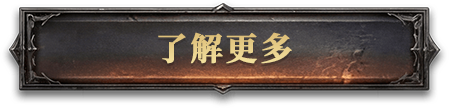
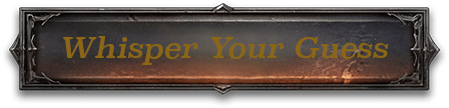
improved

Changed region(s): [[0.1247, 0.3056, 0.8731, 0.6111], [0.4053, 0.6389, 0.6548, 0.75], [0.6236, 0.6389, 0.6548, 0.6667]]

diff --git a/index.html b/index.html
@@ -3,7 +3,7 @@
   <head>
     <meta charset="UTF-8" />
     <meta name="viewport" content="width=device-width, initial-scale=1.0" />
-    <title>Mithril Studio</title>
+    <title>WE ARE BACK!</title>
     <link rel="preconnect" href="https://fonts.googleapis.com" />
     <link rel="preconnect" href="https://fonts.gstatic.com" crossorigin />
     <link href="https://fonts.googleapis.com/css2?family=Cinzel:wght@400;600;700&display=swap" rel="stylesheet" />
@@ -70,6 +70,112 @@
         border-radius: 3px;
         overflow: hidden;
       }
+
+    </style>
+    <style>
+      #guessTrigger {
+        border: 0;
+        background: transparent;
+        padding: 0;
+        cursor: pointer;
+      }
+
+      dialog::backdrop {
+        background: rgba(3, 4, 8, 0.78);
+        backdrop-filter: blur(4px);
+      }
+
+      #guessDialog {
+        position: fixed;
+        top: 50%;
+        left: 50%;
+        top: 50dvh;
+        left: 50vw;
+        width: min(92vw, 420px);
+        max-height: min(90dvh, 560px);
+        margin: 0;
+        overflow-y: auto;
+        transform: translate(-50%, -50%);
+        box-sizing: border-box;
+        -webkit-overflow-scrolling: touch;
+      }
+
+      #guessForm {
+        display: flex;
+        flex-direction: column;
+        gap: 20px;
+        padding: 28px 24px;
+      }
+
+      #guessDialog form {
+        box-sizing: border-box;
+      }
+
+      #guessDialog h2 {
+        margin: 0;
+        color: #e8e6e3;
+        font-family: "Cinzel", serif;
+        font-size: 24px;
+        line-height: 1.25;
+        letter-spacing: 0;
+        text-align: center;
+      }
+
+      #guessDialog label {
+        display: block;
+        color: #d7d0c8;
+        font-size: 14px;
+        line-height: 1.4;
+        text-align: left;
+      }
+
+      #guessDialog input {
+        display: block;
+        width: 100%;
+        box-sizing: border-box;
+        margin-top: 8px;
+        border: 1px solid rgba(123, 107, 87, 0.7);
+        border-radius: 4px;
+        background: #15151d;
+        color: #f4efe8;
+        font-size: 16px;
+        line-height: 1.4;
+        padding: 12px;
+        outline: none;
+      }
+
+      #guessDialog input:focus {
+        border-color: #c9a84c;
+        box-shadow: 0 0 0 1px #c9a84c;
+      }
+
+      #guessDialog button[type="submit"] {
+        min-height: 48px;
+        border: 1px solid rgba(201, 168, 76, 0.7);
+        border-radius: 4px;
+        background: #7b6b57;
+        color: #fff9ef;
+        font-family: "Cinzel", serif;
+        font-size: 14px;
+        letter-spacing: 0;
+        text-transform: uppercase;
+      }
+
+      #guessDialog button[type="submit"]:hover,
+      #guessDialog button[type="submit"]:focus-visible {
+        background: #8b7355;
+      }
+
+      @media (max-width: 480px) {
+        #guessDialog {
+          width: calc(100vw - 32px);
+          max-height: calc(100dvh - 32px);
+        }
+
+        #guessForm {
+          padding: 24px 18px;
+        }
+      }
     </style>
   </head>
   <body class="bg-[#05070f]">
@@ -81,6 +187,7 @@
           <video class="absolute inset-0 w-full h-full object-cover" aria-hidden="true" autoplay muted loop playsinline>
             <source src="./static/bg.mp4" type="video/mp4" />
           </video>
+
           <div
             class="absolute inset-0 bg-[radial-gradient(ellipse_at_center,_rgba(201,168,76,0.08)_0%,_transparent_70%)]"
             aria-hidden="true"
@@ -94,14 +201,21 @@
                 class="mx-auto w-full max-w-[520px] sm:max-w-[680px] lg:max-w-[760px] h-auto"
               />
             </h1>
+            <h1 class="mb-5 sm:mb-8 leading-tight text-1xl sm:text-2xl sm:whitespace-nowrap">
+              "Those who name the blood may earn the right to tread the dungeon."
+            </h1>
             <div class="mb-6 sm:mb-8">
-              <a href="javascript:void(0)" style="display: inline-block">
+              <button
+                id="guessTrigger"
+                type="button"
+                class="inline-block cursor-pointer border-0 bg-transparent p-0 transition duration-200 hover:scale-[1.02] focus:outline-none focus-visible:ring-2 focus-visible:ring-[#c9a84c] focus-visible:ring-offset-4 focus-visible:ring-offset-[#05070f]"
+              >
                 <img
                   src="./static/btn_more.png"
-                  alt="Subscribe"
+                  alt="Whisper Your Guess"
                   class="mx-auto w-[220px] sm:w-[280px] lg:w-[360px] h-auto"
                 />
-              </a>
+              </button>
             </div>
             <img
               src="./static/txt_slogan.png"
@@ -116,5 +230,94 @@
         </div>
       </div>
     </div>
+
+    <dialog
+      id="guessDialog"
+      tabindex="-1"
+      class="rounded-md border border-[#7b6b57]/60 bg-[#0b0c12]/95 p-0 text-primary-text shadow-2xl shadow-black/60"
+      aria-labelledby="guessDialogTitle"
+    >
+      <form id="guessForm" class="space-y-5 px-6 py-7 sm:px-8" novalidate>
+        <div class="text-center">
+          <h2 id="guessDialogTitle" class="text-xl sm:text-2xl text-[#e8e6e3]">Whisper Your Guess</h2>
+        </div>
+
+        <label class="block text-left text-sm text-[#d7d0c8]">
+          Guess Name
+          <input
+            id="guessName"
+            name="guessName"
+            type="text"
+            required
+            autocomplete="off"
+            class="mt-2 block w-full rounded border border-[#7b6b57]/70 bg-[#15151d] px-3 py-3 text-base text-[#f4efe8] outline-none transition placeholder:text-[#8b8174] focus:border-[#c9a84c] focus:ring-1 focus:ring-[#c9a84c]"
+            placeholder="Enter the name"
+          />
+        </label>
+
+        <label class="block text-left text-sm text-[#d7d0c8]">
+          Email Address
+          <input
+            name="email"
+            type="email"
+            required
+            autocomplete="email"
+            class="mt-2 block w-full rounded border border-[#7b6b57]/70 bg-[#15151d] px-3 py-3 text-base text-[#f4efe8] outline-none transition placeholder:text-[#8b8174] focus:border-[#c9a84c] focus:ring-1 focus:ring-[#c9a84c]"
+            placeholder="[email redacted]"
+          />
+        </label>
+
+        <button
+          type="submit"
+          class="w-full rounded border border-[#c9a84c]/70 bg-[#7b6b57] px-4 py-3 font-heading text-sm uppercase text-[#fff9ef] transition hover:bg-[#8b7355] focus:outline-none focus-visible:ring-2 focus-visible:ring-[#c9a84c]"
+        >
+          Submit
+        </button>
+      </form>
+    </dialog>
+
+    <script>
+      const guessTrigger = document.getElementById("guessTrigger");
+      const guessDialog = document.getElementById("guessDialog");
+      const guessForm = document.getElementById("guessForm");
+      const guessName = document.getElementById("guessName");
+
+      guessTrigger.addEventListener("click", () => {
+        guessDialog.showModal();
+
+        if (window.matchMedia("(pointer: coarse)").matches) {
+          guessDialog.focus({ preventScroll: true });
+        } else {
+          requestAnimationFrame(() => {
+            guessName.focus({ preventScroll: true });
+          });
+        }
+      });
+
+      guessForm.addEventListener("submit", (event) => {
+        event.preventDefault();
+
+        if (!guessForm.checkValidity()) {
+          guessForm.reportValidity();
+          return;
+        }
+
+        guessForm.reset();
+        guessDialog.close();
+      });
+
+      guessDialog.addEventListener("click", (event) => {
+        const dialogBounds = guessDialog.getBoundingClientRect();
+        const isBackdropClick =
+          event.clientX < dialogBounds.left ||
+          event.clientX > dialogBounds.right ||
+          event.clientY < dialogBounds.top ||
+          event.clientY > dialogBounds.bottom;
+
+        if (isBackdropClick) {
+          guessDialog.close();
+        }
+      });
+    </script>
   </body>
 </html>